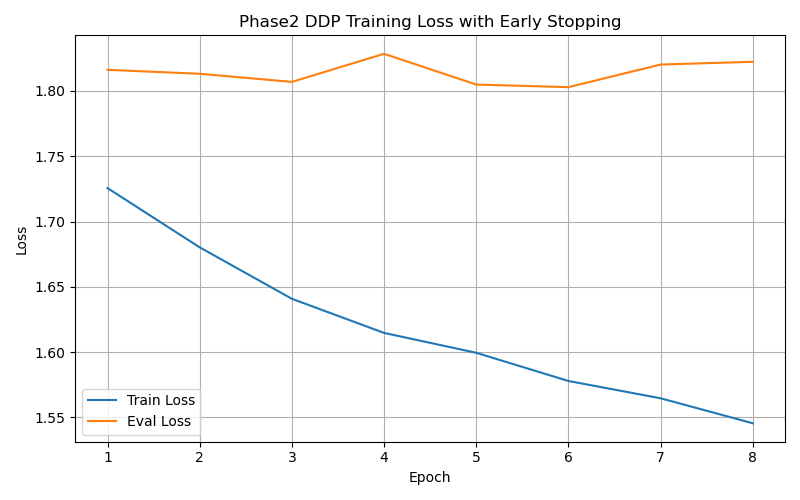
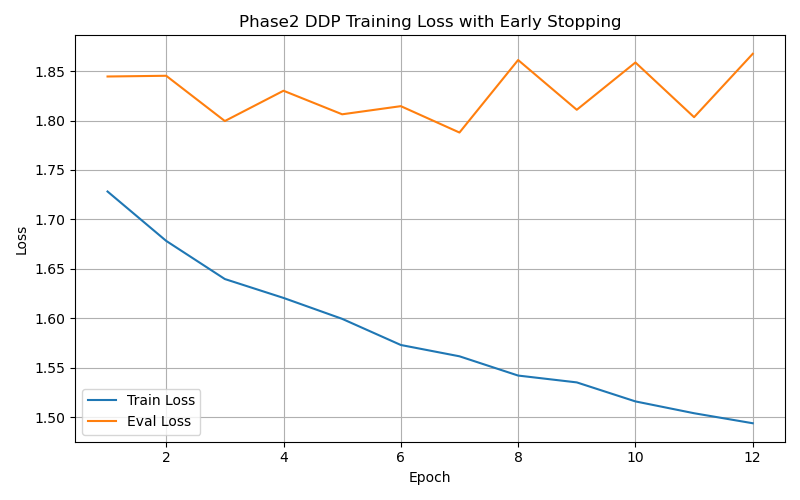
finish pretrain

diff --git a/pretraining_bert_2/pretraining_bert_2.py b/pretraining_bert_2/pretraining_bert_2.py
@@ -49,14 +49,14 @@ def ddp_main(rank, world_size):
         no_decay = ["bias", "LayerNorm.weight"]
         optimizer_grouped_parameters = [
             {"params": [p for n, p in model.named_parameters() if not any(nd in n for nd in no_decay)],
-             "weight_decay": 0.01},
+             "weight_decay": 0.0001},
             {"params": [p for n, p in model.named_parameters() if any(nd in n for nd in no_decay)],
              "weight_decay": 0.0}
         ]
         optimizer = AdamW(optimizer_grouped_parameters, lr=5e-5)
 
         num_epochs = 20
-        patience = 2
+        patience = 5
         best_eval_loss = float("inf")
         epochs_no_improve = 0
         early_stop_triggered = False
